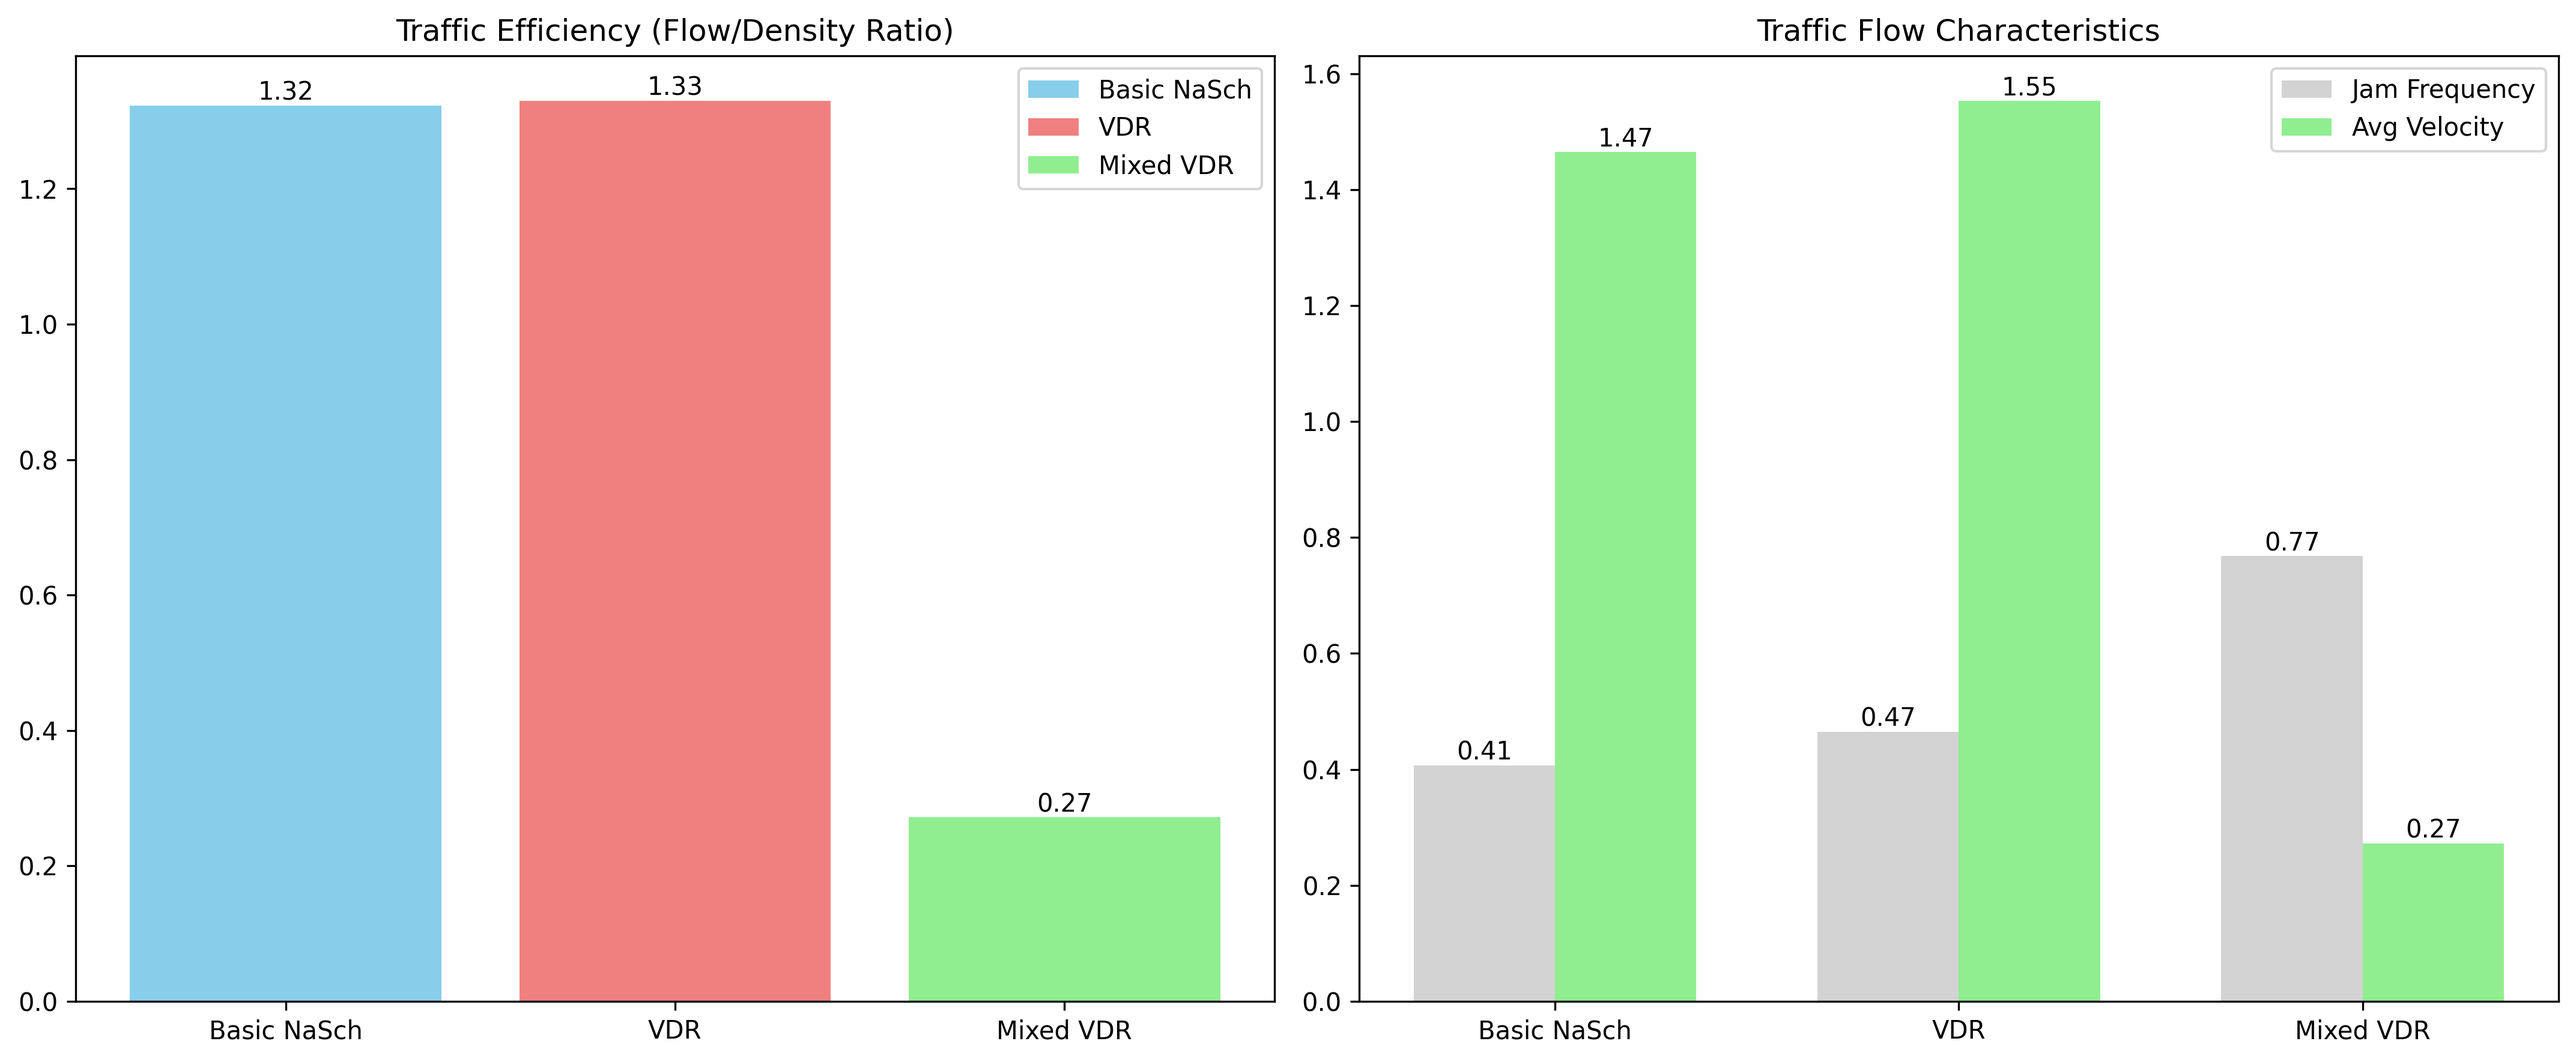
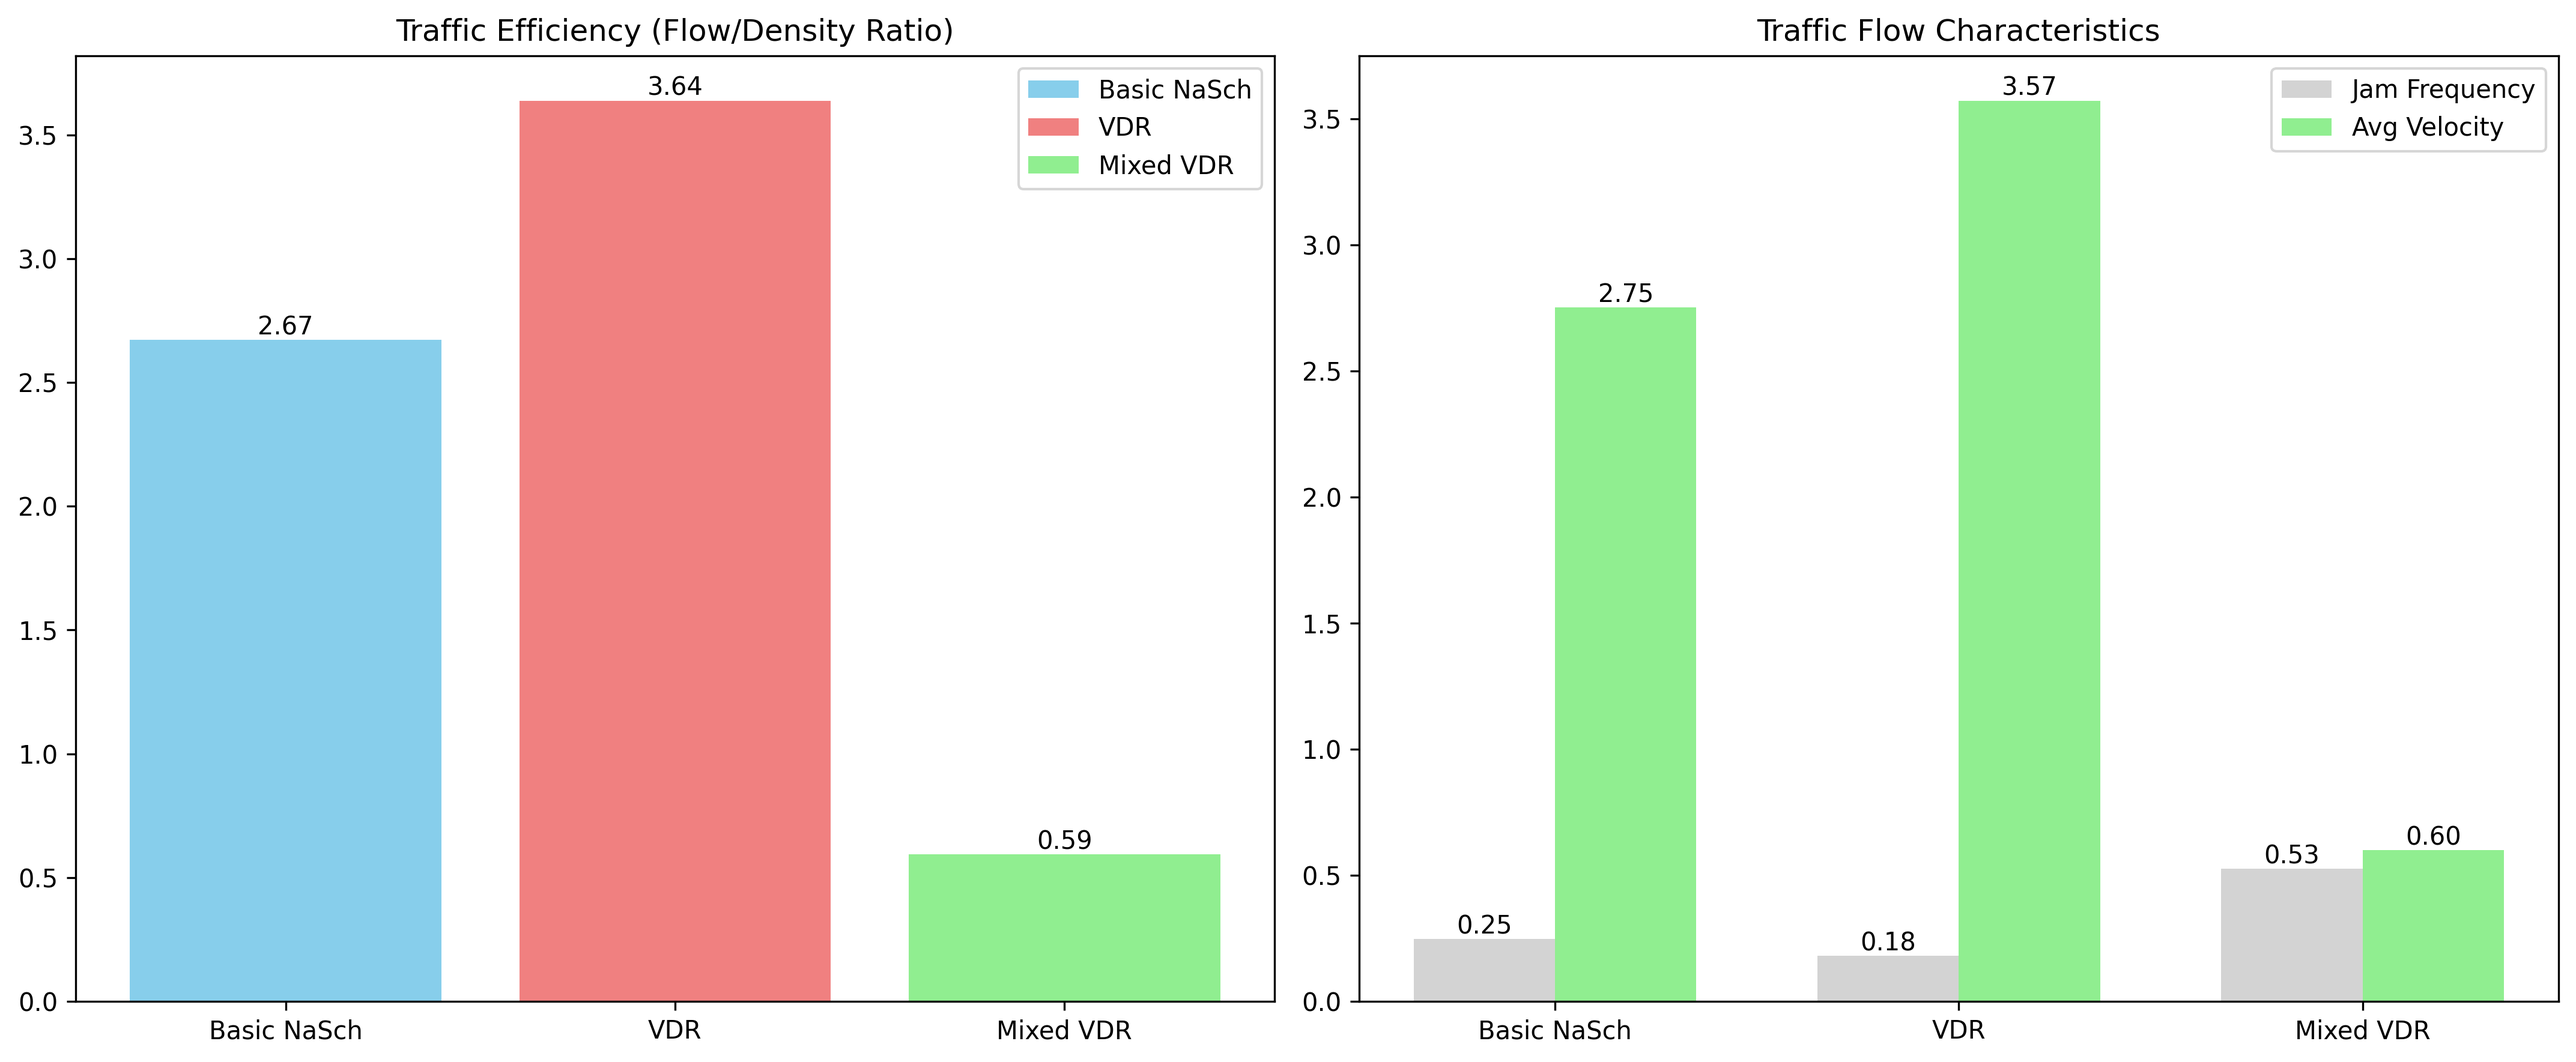
modifications

diff --git a/final-project/traffic_simulation.py b/final-project/traffic_simulation.py
@@ -176,11 +176,11 @@ class MixedVDRTrafficSimulation(VDRTrafficSimulation):
                 'recovery_rate': 0.7
             },
             VehicleType.TRUCK: {
-                'max_velocity': max(2, max_velocity - 2),
+                'max_velocity': max(2, max_velocity - 1),
                 'min_velocity': 0,
-                'acceleration': 0.5,
-                'p_slow': p_slow * 1.3,
-                'p0_slow': p0_slow * 1.2,
+                'acceleration': 0.75,
+                'p_slow': p_slow * 1.15,
+                'p0_slow': p0_slow * 1.1,
                 'recovery_rate': 0.6
             }
         }

diff --git a/final-project/main.py b/final-project/main.py
@@ -39,8 +39,8 @@ class SimulationManager:
                 truck_ratio=0.2
             ),
             'comparison': SimulationConfig(
-                road_length=100,   # Longer road for statistics
-                num_cars=50,
+                road_length=200,   # Longer road for statistics
+                num_cars=75,
                 v_max=4,
                 p_slow=0.5,
                 boundary_type='open',
